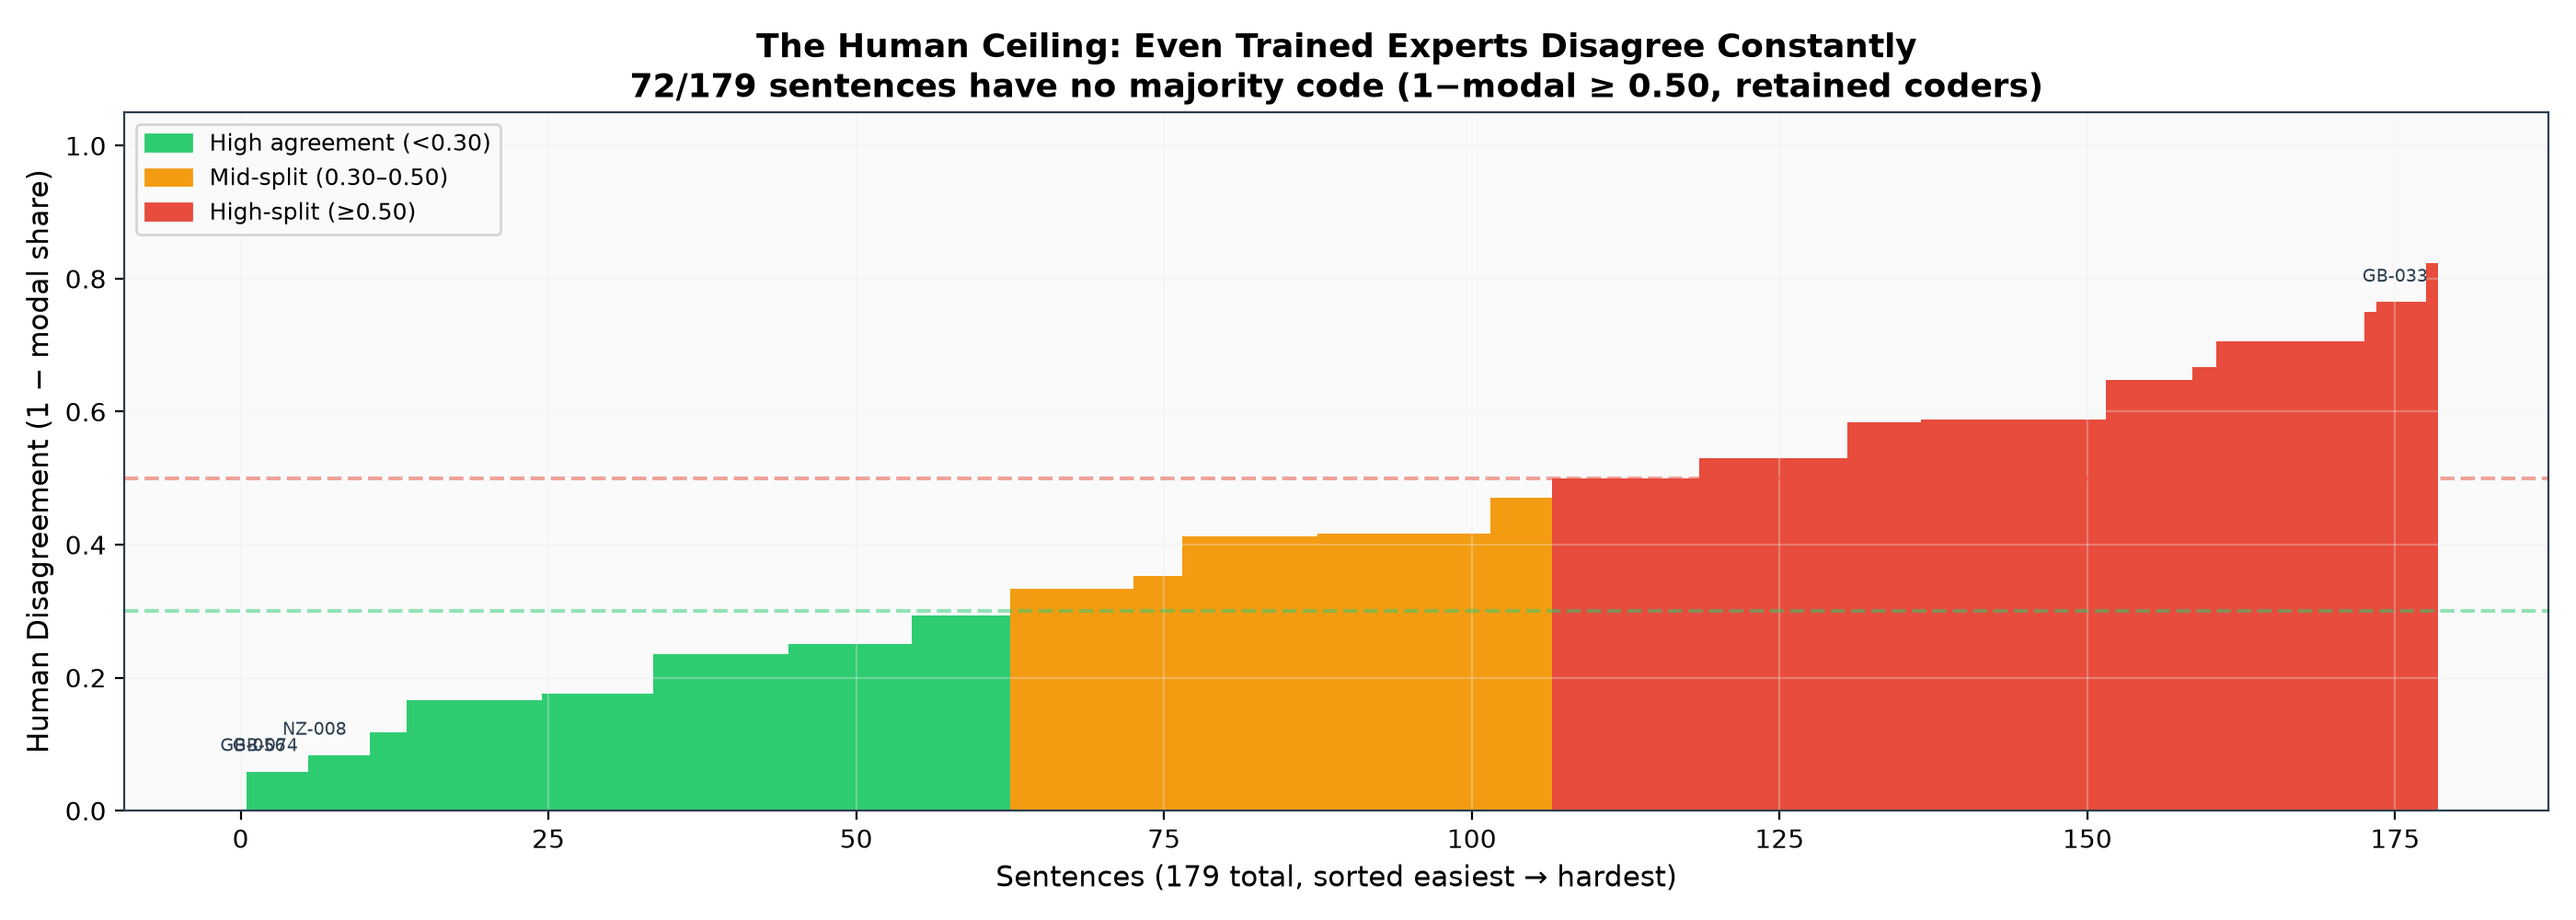
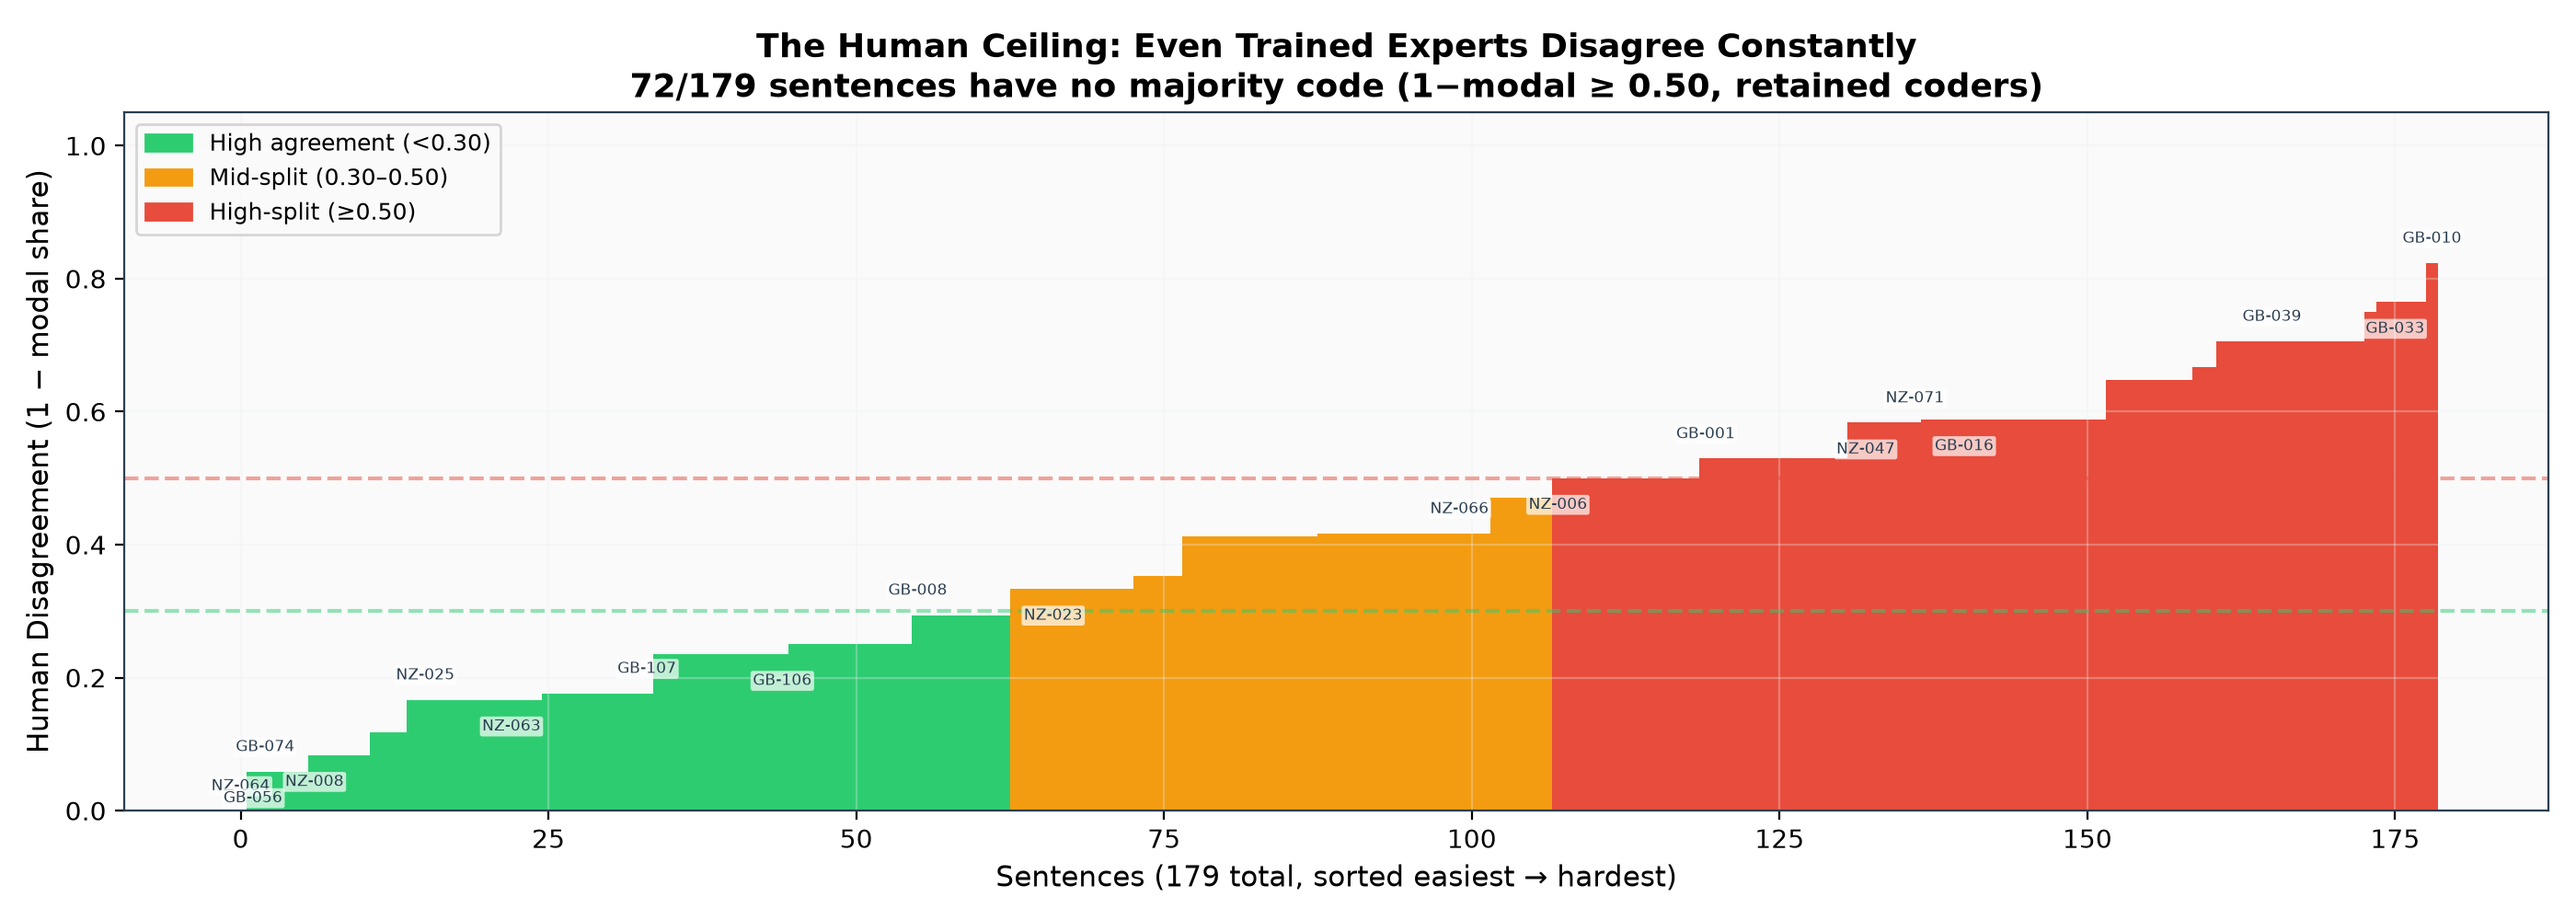
feat: Improve visualization annotations for human landscape and underdispersion charts

diff --git a/reports/visuals/create_visuals.py b/reports/visuals/create_visuals.py
@@ -126,18 +126,28 @@ def chart_human_landscape():
     ax.axhline(y=0.30, color=PALETTE["easy"], linestyle="--", alpha=0.5)
     ax.axhline(y=0.50, color=PALETTE["hard"], linestyle="--", alpha=0.5)
 
-    # Annotate a few anchor sentences
-    for s in all_sentences:
-        if s["uid"] in ("GB-056", "GB-033", "NZ-008", "GB-074"):
-            idx = next(i for i, ss in enumerate(all_sentences) if ss["uid"] == s["uid"])
+    # Annotate sentences spread across the landscape (~16 labels, alternating offset to reduce overlap)
+    label_uids = [
+        "NZ-064", "GB-056", "GB-074", "NZ-008", "NZ-025", "NZ-063",  # easy half
+        "GB-107", "GB-106", "GB-008", "NZ-023", "NZ-066",               # mid
+        "NZ-006", "GB-001", "NZ-047", "NZ-071", "GB-016", "GB-039",      # hard
+        "GB-033", "GB-010",                                                # hardest
+    ]
+    for i, s in enumerate(all_sentences):
+        if s["uid"] in label_uids:
+            idx = i
+            # Alternate y-offset above/below to avoid collisions; tighter offset for dense region
+            rank = label_uids.index(s["uid"])
+            y_offset = 8 if rank % 2 == 0 else -12
             ax.annotate(
                 s["uid"],
                 (idx, s["h_1m"]),
                 textcoords="offset points",
-                xytext=(0, 8),
+                xytext=(0, y_offset),
                 ha="center",
-                fontsize=7,
+                fontsize=6,
                 color=PALETTE["ink"],
+                bbox=dict(boxstyle="round,pad=0.15", facecolor="white", alpha=0.7, edgecolor="none"),
             )
 
     ax.set_ylabel("Human Disagreement (1 − modal share)")
@@ -178,14 +188,24 @@ def chart_underdispersion():
         }.get(bkt, "gray")
         ax.scatter(s["h_1m"], s["m_1m"], c=color, s=70, edgecolors="white", linewidth=0.5, zorder=5)
         # label the most notable ones
-        if s["uid"] in ("NZ-006", "GB-033", "GB-016", "GB-056", "NZ-008"):
+        # Label more sentences with staggered offsets to avoid overlap
+        label_info = {
+            "NZ-006": (8, 8),      "GB-033": (8, -10),
+            "GB-016": (-20, 4),     "GB-056": (6, -8),
+            "NZ-008": (8, 12),      "GB-074": (-18, -4),
+            "GB-050": (10, 6),      "NZ-025": (-22, 6),
+            "GB-001": (8, -14),     "NZ-071": (8, 10),
+        }
+        if s["uid"] in label_info:
             ax.annotate(
                 s["uid"],
                 (s["h_1m"], s["m_1m"]),
                 textcoords="offset points",
-                xytext=(6, 4),
-                fontsize=7,
+                xytext=label_info[s["uid"]],
+                fontsize=6.5,
                 color=PALETTE["ink"],
+                zorder=10,
+                bbox=dict(boxstyle="round,pad=0.15", facecolor="white", alpha=0.75, edgecolor="none"),
             )
 
     # y = x line
